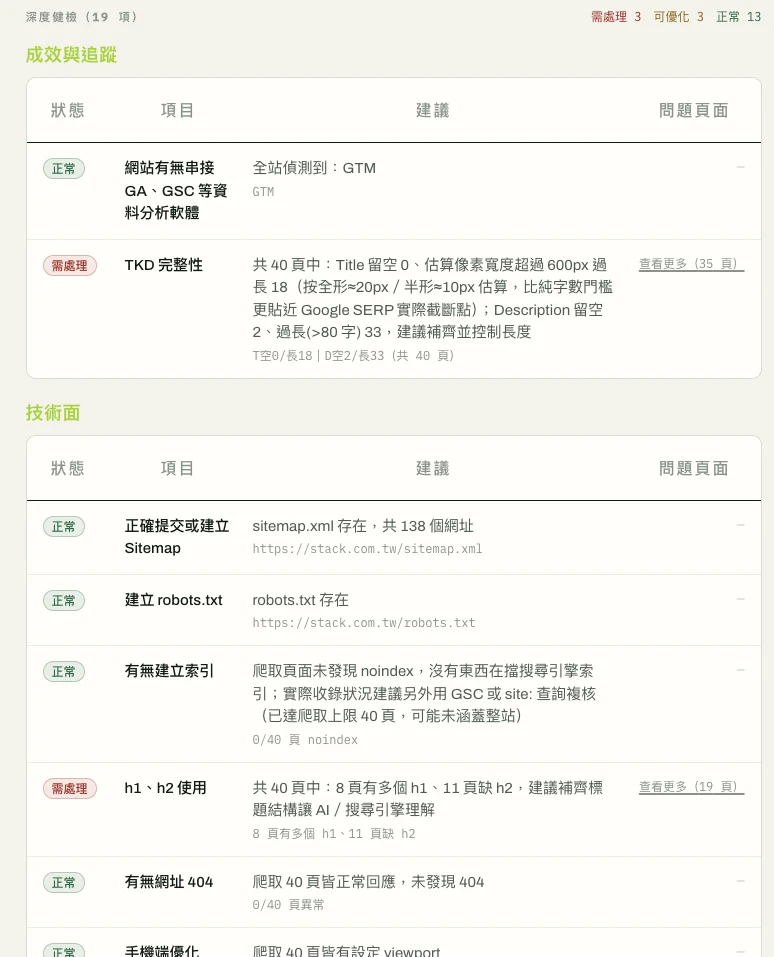
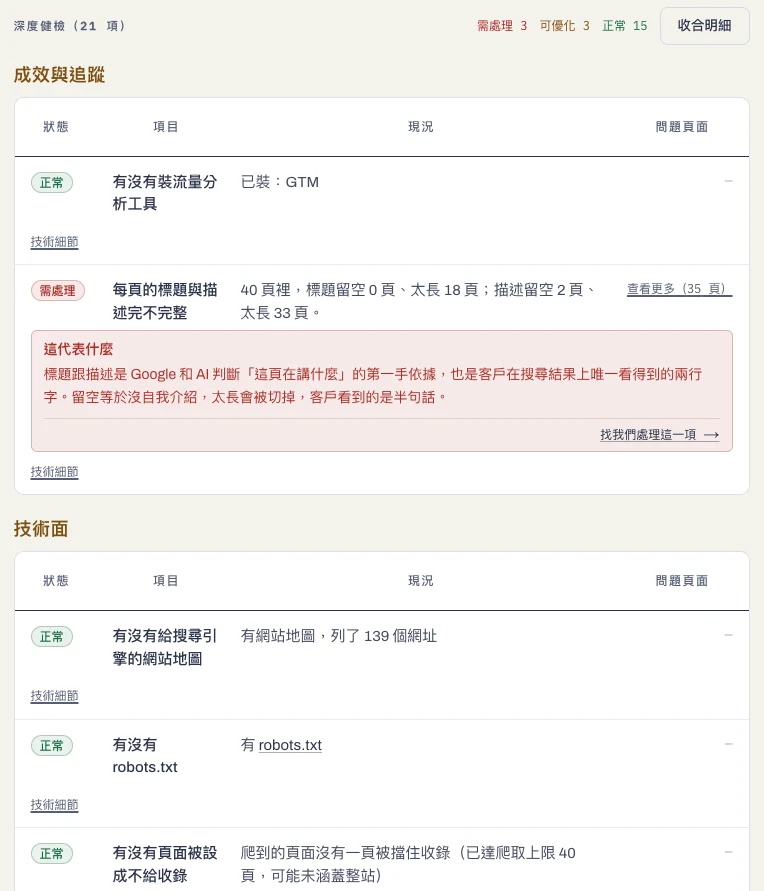
首頁「你會拿到的報告」兩張截圖換成現在的版本
左邊換成戰情表 PDF 第 1 頁的上半（抬頭、KPI 帶、累積字數曲線），右邊換成現行深度健檢
表格（含「這代表什麼」與諮詢入口）。舊圖還是五分類總覽那版，早就被拿掉了。

Claude-Session: https://claude.ai/code/session_01PtsPHHpYA2F4718RSBNzvY

diff --git a/app/HomeClient.tsx b/app/HomeClient.tsx
@@ -3150,8 +3150,8 @@ export default function HomeClient({
                   兩張比三張各自能分到更多寬度，文字自然變大、更好讀。 */}
               <div className="mt-[30px] grid grid-cols-1 gap-4 sm:grid-cols-2">
                 {[
-                  { src: "/report-screenshot-1.webp", alt: "健檢報告截圖：五分類總覽，總分 78 分（B 級・良好）與檢測總覽長條圖" },
-                  { src: "/report-screenshot-3.webp", alt: "健檢報告截圖：21 項深度健檢表格，逐項列出狀態、建議與問題頁面" },
+                  { src: "/report-screenshot-1.webp", alt: "健檢報告圖：總分 80 分（B 級・良好）、需處理／可優化／正常計數、AI 爬蟲累積讀到的字數曲線" },
+                  { src: "/report-screenshot-3.webp", alt: "健檢報告截圖：21 項深度健檢表格，逐項列出狀態、現況、這代表什麼與問題頁面" },
                 ].map((img) => (
                   // eslint-disable-next-line @next/next/no-img-element -- 固定素材、非使用者上傳圖片，不需要 next/image 的最佳化/尺寸協商
                   <img
